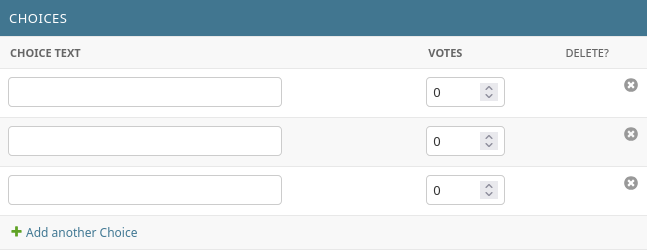
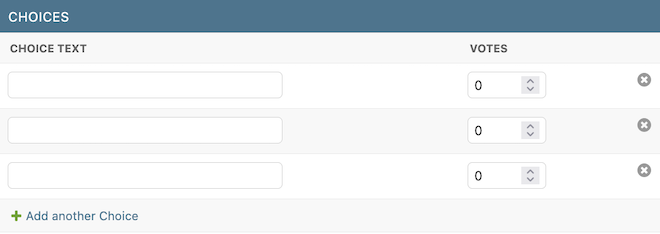
Fixed #36067 -- Removed "Delete?" in admin TabularInline when deletion is not allowed.

diff --git a/django/contrib/admin/templates/admin/edit_inline/tabular.html b/django/contrib/admin/templates/admin/edit_inline/tabular.html
@@ -24,7 +24,11 @@
        {% if field.help_text %}<img src="{% static "admin/img/icon-unknown.svg" %}" class="help help-tooltip" width="10" height="10" alt="({{ field.help_text|striptags }})" title="{{ field.help_text|striptags }}">{% endif %}
        </th>
      {% endfor %}
-     <th>{% if inline_admin_formset.formset.can_delete and inline_admin_formset.has_delete_permission %}{% translate "Delete?" %}{% endif %}</th>
+     {% if inline_admin_formset.can_delete %}
+       <th>{% translate "Delete?" %}</th>
+     {% else %}
+       <td></td>
+     {% endif %}
      </tr></thead>
 
      <tbody>
@@ -59,7 +63,7 @@
             {% endfor %}
           {% endfor %}
         {% endfor %}
-        <td class="delete">{% if inline_admin_formset.formset.can_delete and inline_admin_formset.has_delete_permission and inline_admin_form.original %}{{ inline_admin_form.deletion_field.field }}{% endif %}</td>
+        <td class="delete">{% if inline_admin_formset.can_delete and inline_admin_form.original %}{{ inline_admin_form.deletion_field.field }}{% endif %}</td>
         </tr>
      {% endfor %}
      </tbody>

diff --git a/django/contrib/admin/static/admin/css/base.css b/django/contrib/admin/static/admin/css/base.css
@@ -368,6 +368,7 @@ th {
 }
 
 thead th,
+thead td,
 tfoot td {
     color: var(--body-quiet-color);
     padding: 5px 10px;
@@ -405,6 +406,7 @@ tr:nth-child(odd) + .row-form-errors .errorlist {
 
 /* SORTABLE TABLES */
 
+thead td,
 thead th {
     padding: 5px 10px;
     line-height: normal;

diff --git a/tests/admin_inlines/tests.py b/tests/admin_inlines/tests.py
@@ -936,6 +936,118 @@ class TestInline(TestDataMixin, TestCase):
 
 
 @override_settings(ROOT_URLCONF="admin_inlines.urls")
+class TestTabularInlineDeleteRendering(TestCase):
+    """
+    The "Delete?" table heading & delete checkbox are rendered only if
+    user can delete related objects and at least one inline
+    object has been saved.
+    They should not be rendered if the user cannot delete. The checkboxes
+    are also not rendered for extra (unsaved) forms.
+    """
+
+    @classmethod
+    def setUpTestData(cls):
+        cls.user = User.objects.create_user(
+            username="testing",
+            password="password",
+            is_staff=True,
+        )
+
+        pc_permission = Permission.objects.filter(
+            content_type=ContentType.objects.get_for_model(ProfileCollection)
+        )
+        p_permission = Permission.objects.filter(
+            codename__in=["view_profile", "delete_profile"],
+            content_type=ContentType.objects.get_for_model(Profile),
+        )
+        pc = ProfileCollection.objects.create()
+        Profile.objects.create(collection=pc, first_name="John", last_name="Doe")
+
+        sp_permission = Permission.objects.filter(
+            content_type=ContentType.objects.get_for_model(SomeParentModel)
+        )
+        sc_permission = Permission.objects.filter(
+            codename__in=["view_somechildmodel"],
+            content_type=ContentType.objects.get_for_model(SomeChildModel),
+        )
+        sp = SomeParentModel.objects.create(name="p")
+        SomeChildModel.objects.create(name="c", position="0", parent=sp)
+
+        cls.user.user_permissions.add(
+            *pc_permission, *p_permission, *sp_permission, *sc_permission
+        )
+
+        cls.pc_url = reverse(
+            "admin:admin_inlines_profilecollection_change", args=(pc.pk,)
+        )
+        cls.sp_url = reverse(
+            "admin:admin_inlines_someparentmodel_change", args=(sp.pk,)
+        )
+
+        empty_pc = ProfileCollection.objects.create()
+        cls.empty_pc_url = reverse(
+            "admin:admin_inlines_profilecollection_change",
+            args=(empty_pc.pk,),
+        )
+
+        cls.add_delete_user = User.objects.create_user(
+            username="add_delete",
+            password="password",
+            is_staff=True,
+        )
+        cls.add_delete_user.user_permissions.add(
+            *pc_permission,
+            *Permission.objects.filter(
+                codename__in=["view_profile", "add_profile", "delete_profile"],
+                content_type=ContentType.objects.get_for_model(Profile),
+            ),
+        )
+
+    def setUp(self):
+        self.client.force_login(self.user)
+
+    def test_inline_delete_heading_rendered_only_when_delete_allowed(self):
+        response = self.client.get(self.pc_url)
+        self.assertContains(response, "<th>Delete?</th>", html=True)
+        # User can't delete, so no delete heading
+        response = self.client.get(self.sp_url)
+        self.assertNotContains(response, "<th>Delete?</th>", html=True)
+        # No saved inline objects, so no delete heading
+        self.client.force_login(self.add_delete_user)
+        response = self.client.get(self.empty_pc_url)
+        self.assertContains(response, 'name="profile_set-0-first_name"')
+        self.assertNotContains(response, "<th>Delete?</th>", html=True)
+
+    def test_inline_delete_checkbox_rendered_only_when_delete_allowed(self):
+        # 1 saved inline object exists and user can delete, checkbox rendered
+        response = self.client.get(self.pc_url)
+        self.assertContains(
+            response,
+            '<input type="checkbox" name="profile_set-0-DELETE" '
+            'id="id_profile_set-0-DELETE">',
+            html=True,
+        )
+        # User can't delete, so no delete checkbox
+        response = self.client.get(self.sp_url)
+        self.assertNotContains(response, 'name="somechildmodel_set-0-DELETE"')
+
+    def test_inline_delete_checkbox_not_rendered_for_extra_forms(self):
+        self.client.force_login(self.add_delete_user)
+        response = self.client.get(self.pc_url)
+        # Saved inline object has a delete checkbox
+        self.assertContains(
+            response,
+            '<input type="checkbox" name="profile_set-0-DELETE" '
+            'id="id_profile_set-0-DELETE">',
+            html=True,
+        )
+        # 1 saved inline object exists, extra unsaved form rendered
+        self.assertContains(response, 'name="profile_set-1-first_name"')
+        # ... but the extra unsaved form has no delete checkbox
+        self.assertNotContains(response, 'name="profile_set-1-DELETE"')
+
+
+@override_settings(ROOT_URLCONF="admin_inlines.urls")
 class TestInlineMedia(TestDataMixin, TestCase):
     def setUp(self):
         self.client.force_login(self.superuser)
@@ -2509,7 +2621,7 @@ class PlaywrightTests(AdminPlaywrightTestCase):
         )
         tabular_inline = self.page.locator("[data-inline-type='tabular']")
         headers = tabular_inline.locator("th")
-        self.expect(headers).to_have_count(8)
+        self.expect(headers).to_have_count(7)
         self.expect(headers).to_have_text(
             [
                 "",
@@ -2519,7 +2631,6 @@ class PlaywrightTests(AdminPlaywrightTestCase):
                 "CREATION DATE",
                 "UPDATE DATE",
                 "UPDATED BY",
-                "DELETE?",
             ],
             use_inner_text=True,
         )
@@ -2555,8 +2666,10 @@ class PlaywrightTests(AdminPlaywrightTestCase):
         cf = ExtraTerrestrial.objects.create(name="test")
         url = reverse("admin:admin_inlines_extraterrestrial_change", args=(cf.pk,))
         self.page.goto(self.live_server_url + url)
-        headers = self.page.locator("fieldset.module thead tr th")
-        self.expect(headers.last).to_have_text("")
+        delete_placeholder_cell = self.page.locator(
+            "fieldset.module thead tr > td:last-child"
+        ).last
+        self.expect(delete_placeholder_cell).to_have_text("")
         delete = self.page.locator(
             "fieldset.module tbody" " tr.dynamic-sighting_set:not(.original) td.delete",
         ).first

diff --git a/django/contrib/admin/helpers.py b/django/contrib/admin/helpers.py
@@ -458,6 +458,14 @@ class InlineAdminFormSet:
         return self.formset.total_form_count
 
     @property
+    def can_delete(self):
+        return (
+            self.formset.can_delete
+            and self.has_delete_permission
+            and bool(self.formset.initial_forms)
+        )
+
+    @property
     def media(self):
         media = self.opts.media + self.formset.media
         for fs in self:
